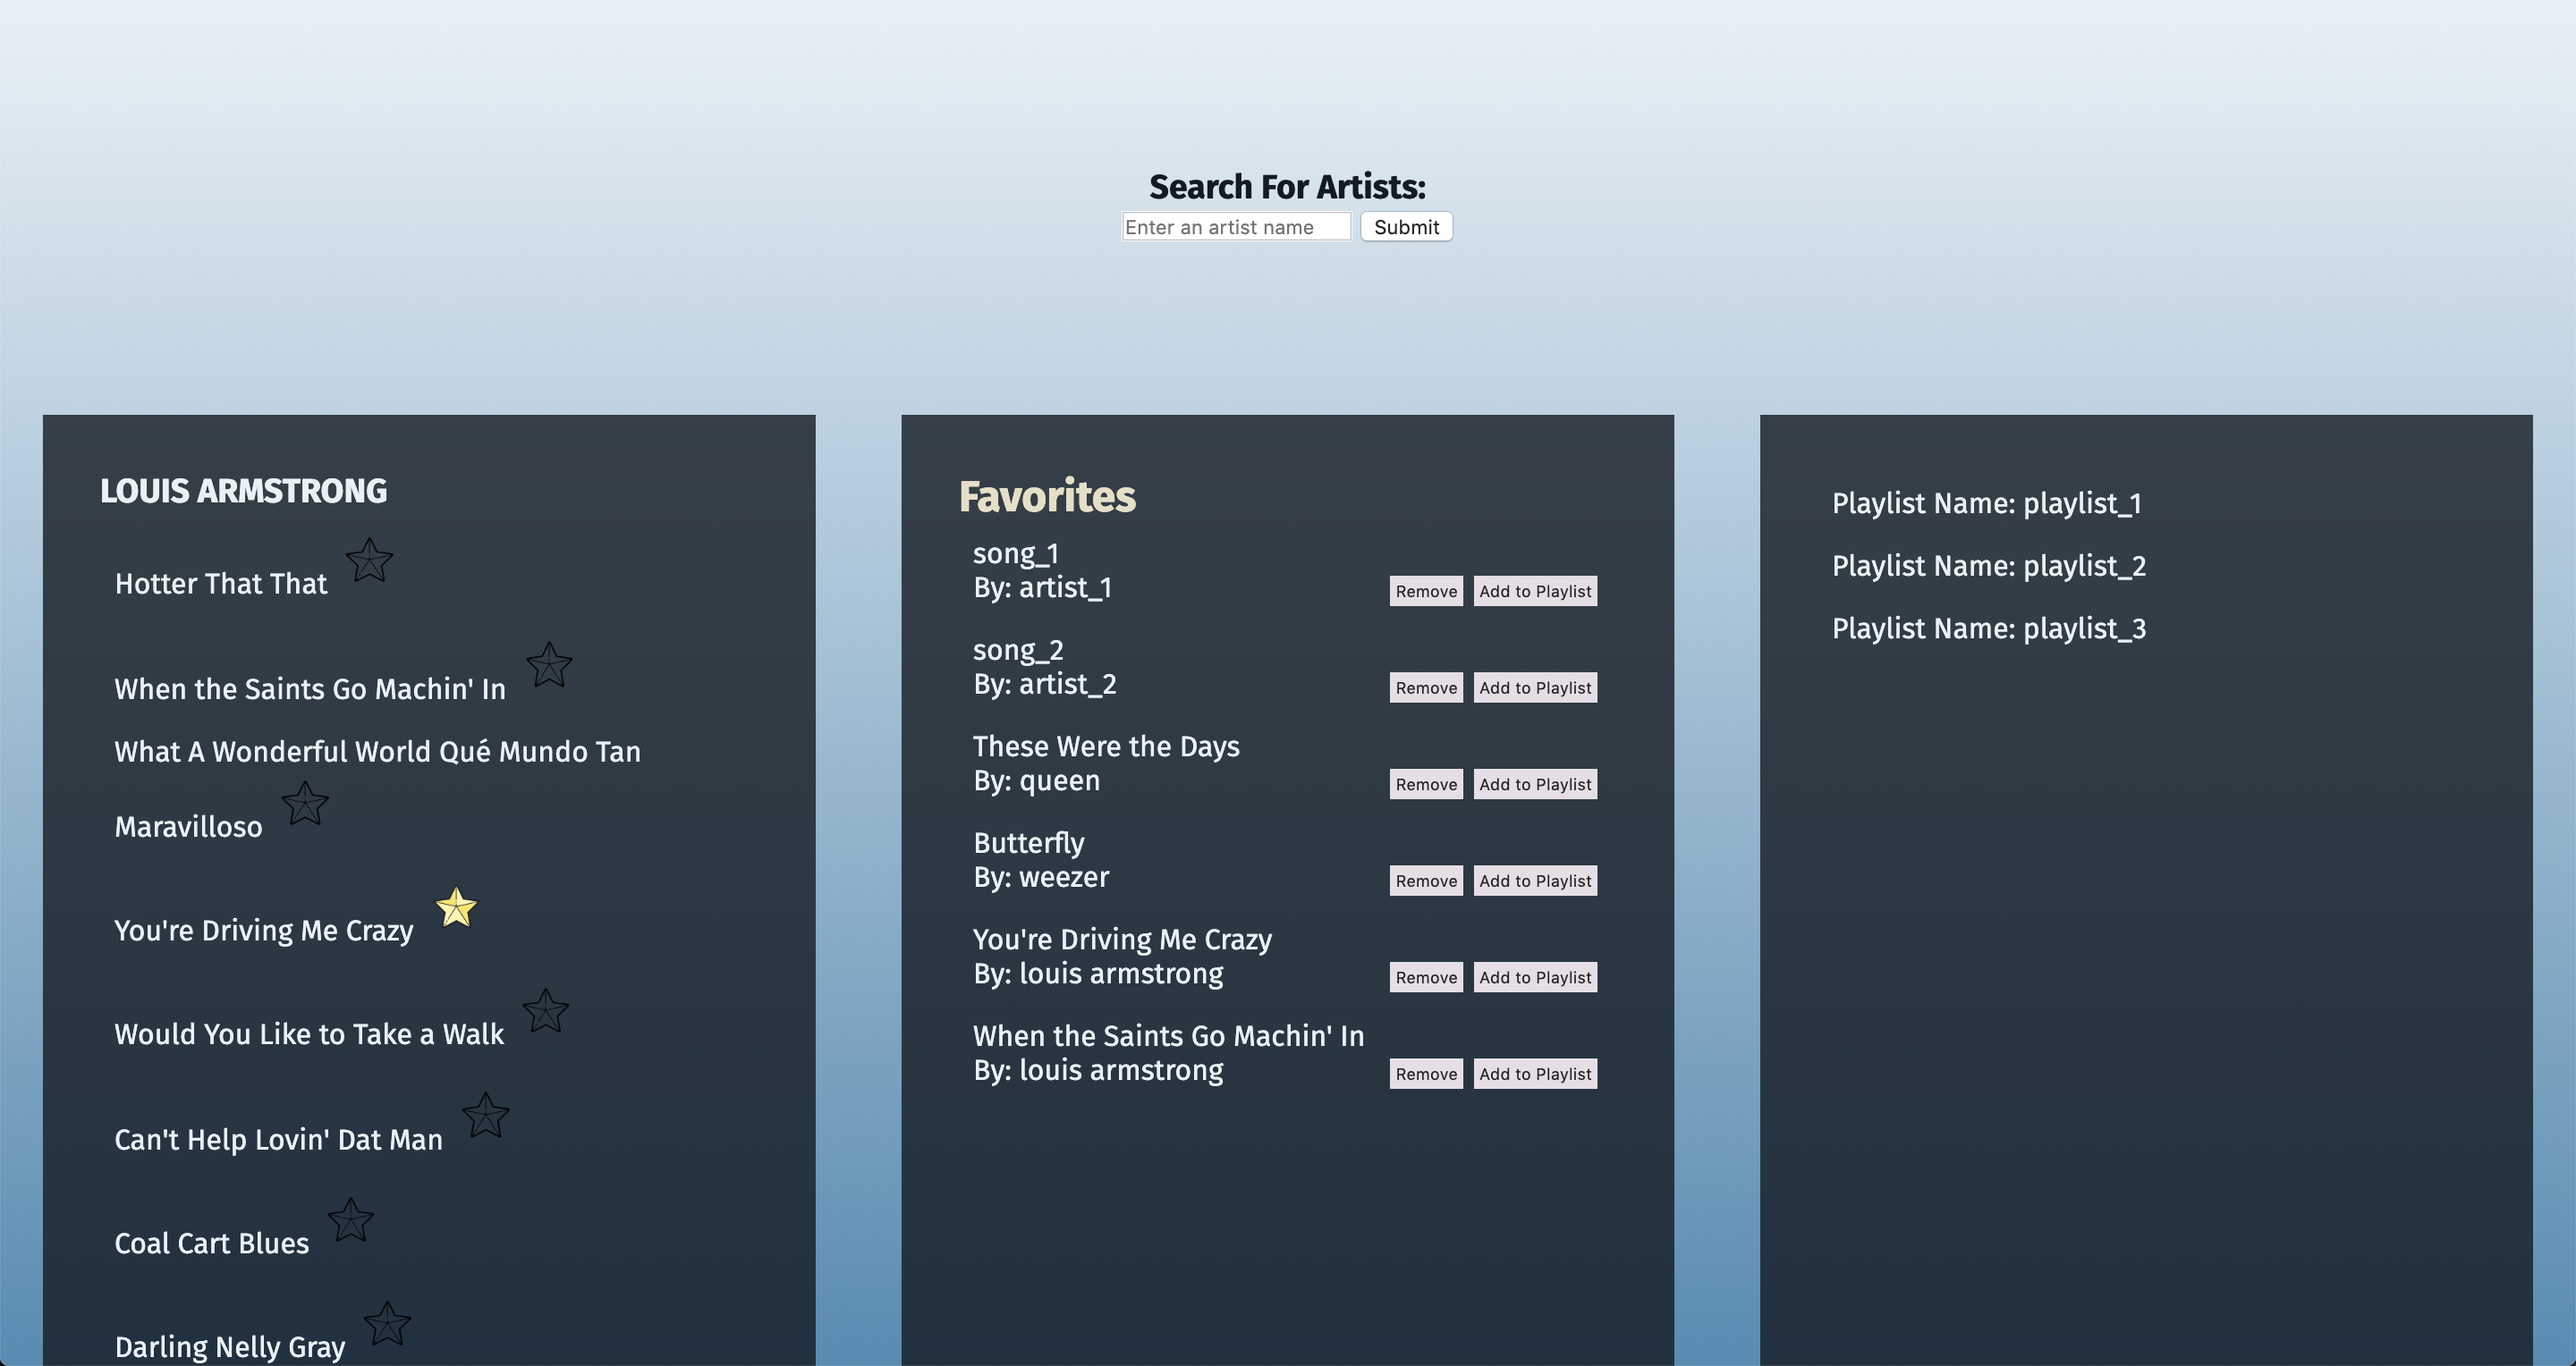
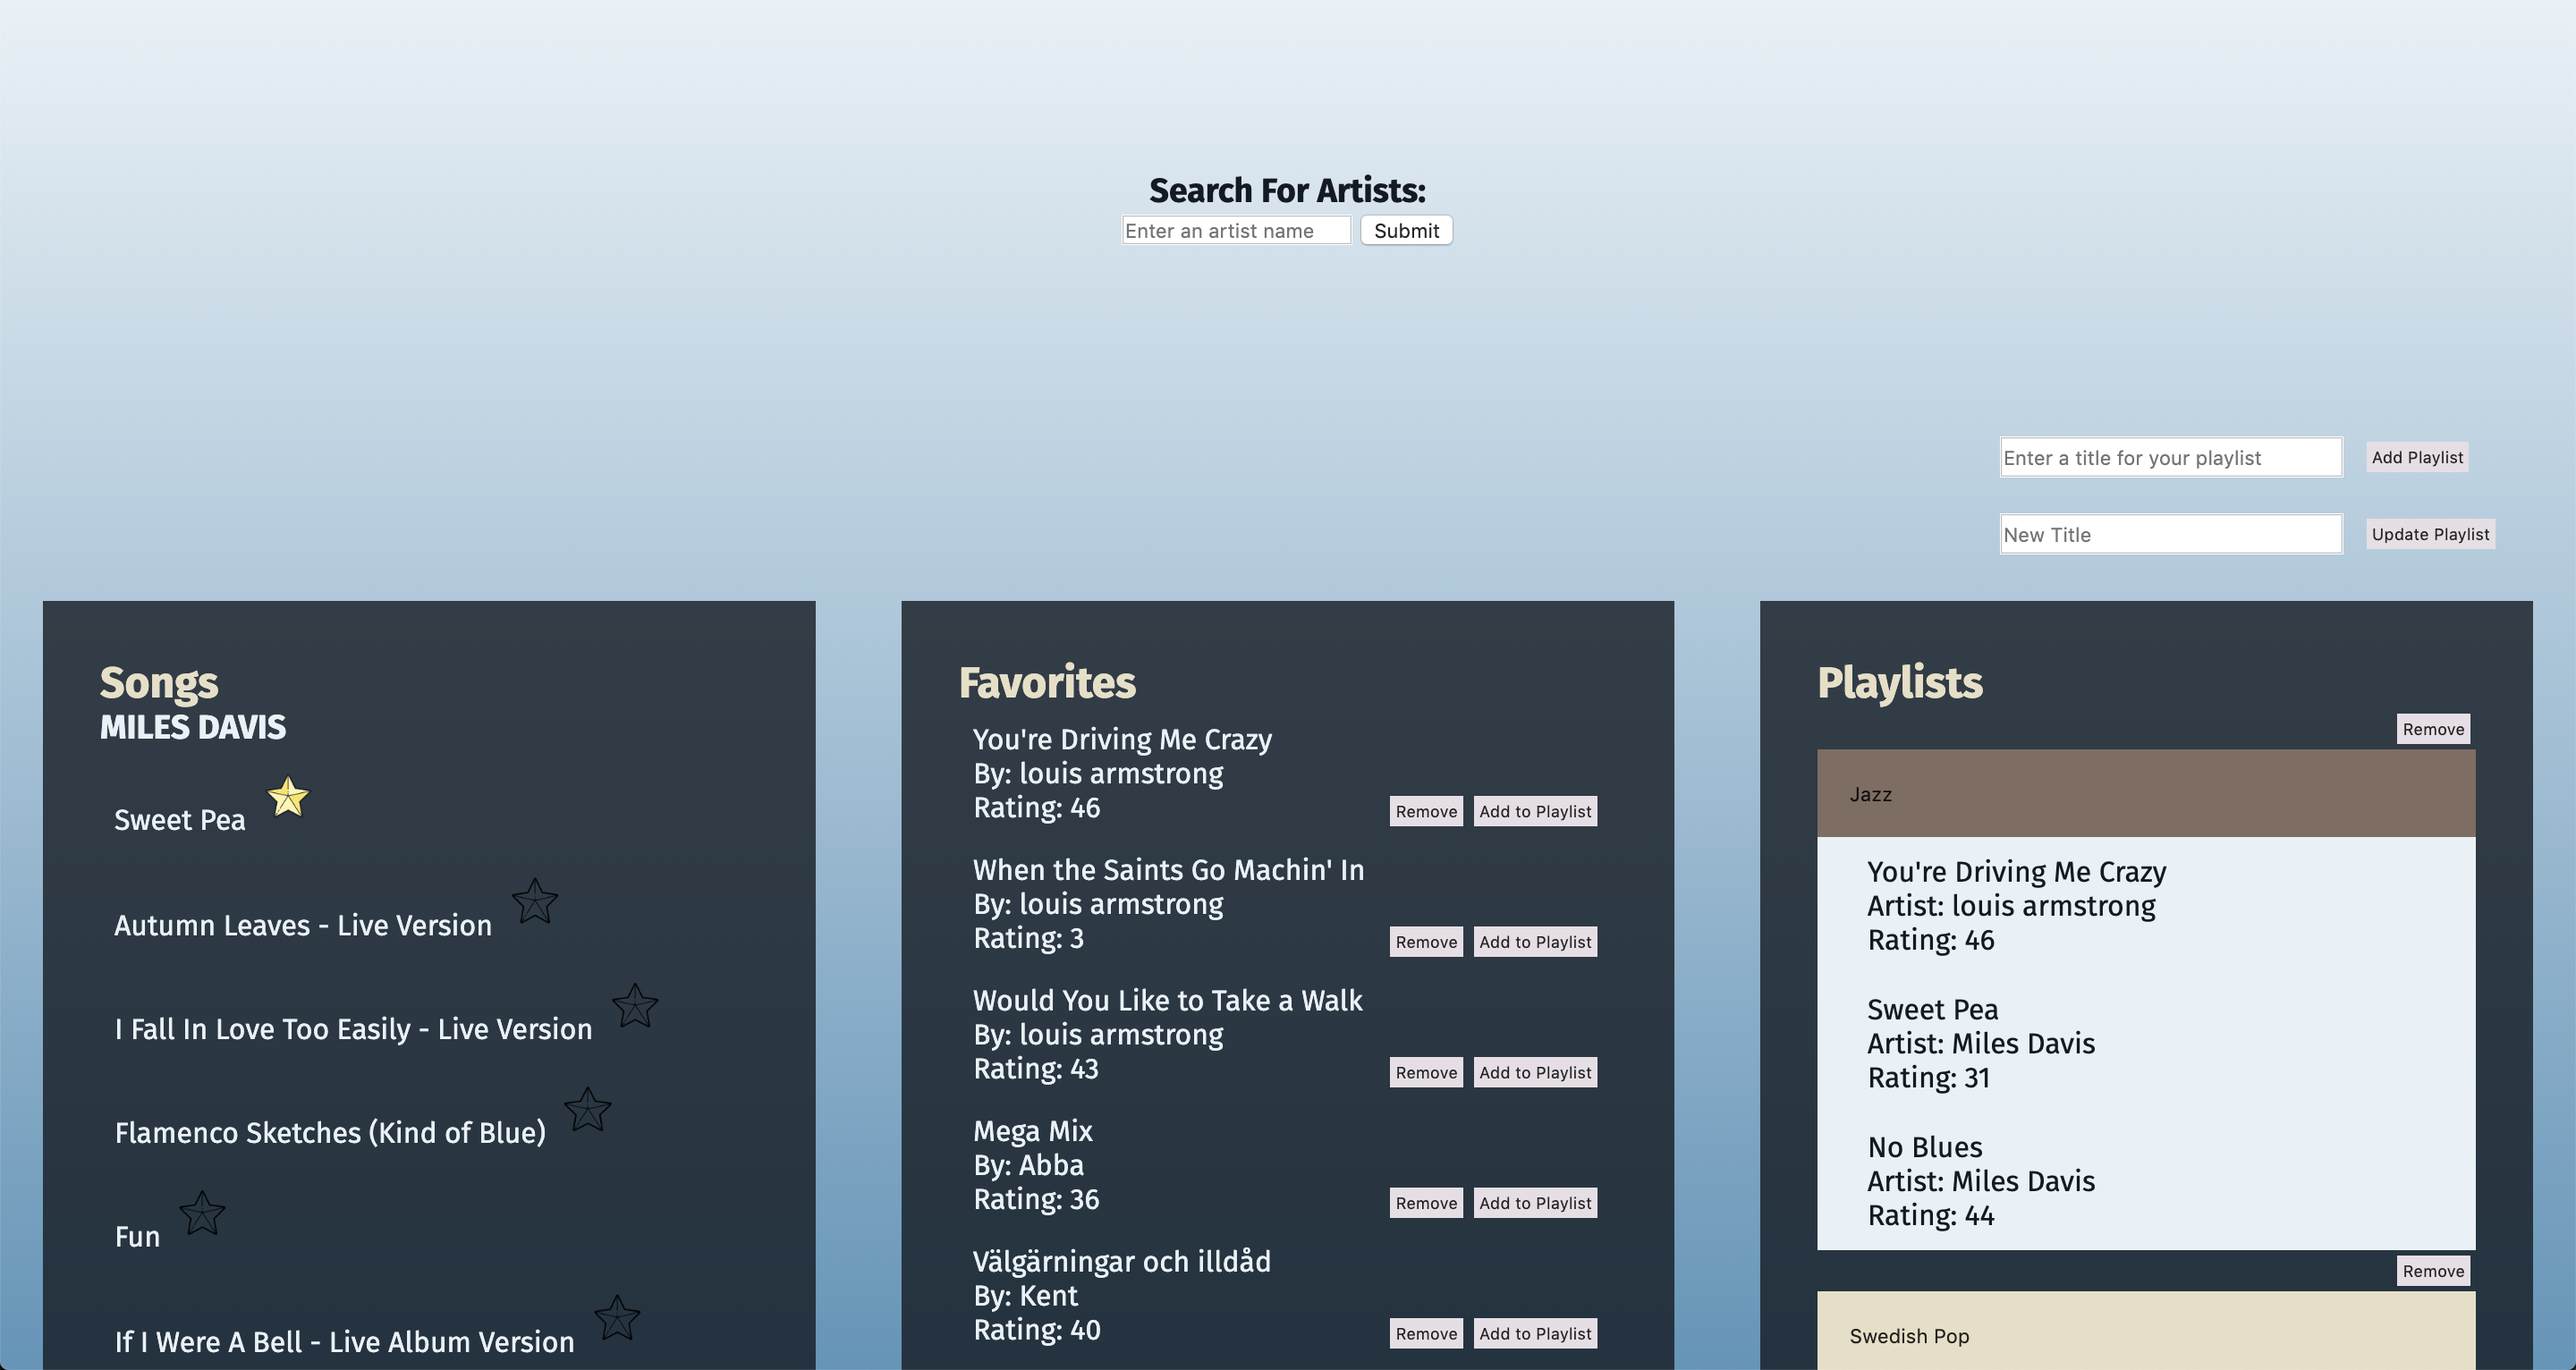
Updates README

diff --git a/README.md b/README.md
@@ -18,7 +18,9 @@ They can then "star" or favorite those songs:
 
 That will store the songs as "favorites", at which point a user can add them to a playlist or remove them as favorites:
 ![Favorites](readme_images/favorites.png)
-# Need to add info about playlists here once complete
+
+Once stored as a favorite, the user can add the songs to playlists. They can also create and rename playlists:
+![Favorites and Playlists](readme_images/favorites-playlists.png)
 
 ## Initial Setup
 To install this project on your local machine:
@@ -39,7 +41,7 @@ MUSIXMATCH_API_KEY=<your api key>
 ```
 6. Build: 
 ```
-npm build
+npm run build
 ```
 
 ## Running the Server Locally
@@ -51,8 +53,7 @@ Once running, point your browser to:
 ```
 http://localhost:8080/
 ```
-# This part will need updating: 
-Currently the base URL for the backend is set to run using a locally deployed backend. You can point it to either the [deployed backend](https://morning-island-25788.herokuapp.com/) or [pull down and run the backend](https://github.com/asmolentzov/play_be) locally also.  
+Currently the base URL for the backend is pointed to the [deployed backend](https://morning-island-25788.herokuapp.com/). If you wish to run the backend locally, you can [pull down and run the backend](https://github.com/asmolentzov/play_be), then update `index.js` with your local backend URL.  
 
 ## How to Contribute
 If you wish to contribute to this repo, you are welcome to make a PR and we would be happy to review it. 
